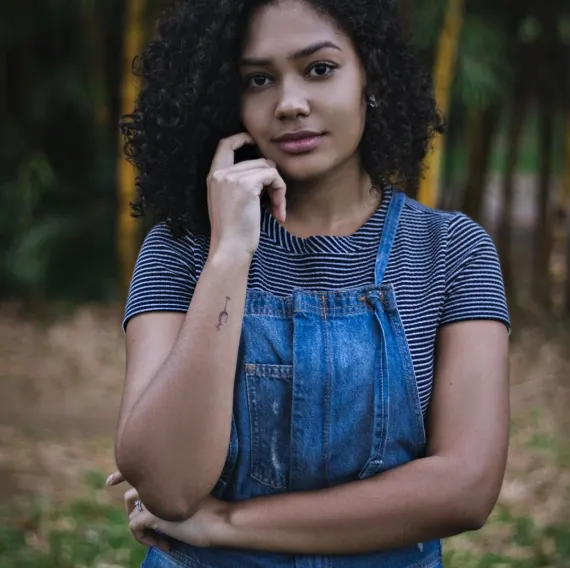
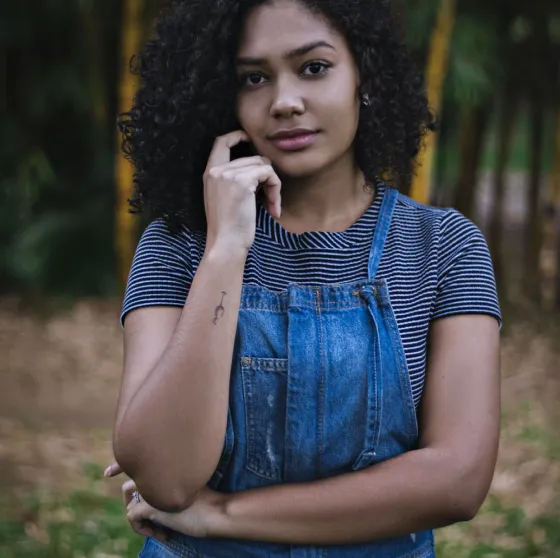
add more defer and resize some images

diff --git a/index.html b/index.html
@@ -6,7 +6,7 @@
 	<title>Nina Carducci</title>
 	<link rel="stylesheet" href="./assets/bootstrap/bootstrap.css" defer>
 	<link rel="stylesheet" href="./assets/style.css">
-	<link rel="preconnect" href="https://fonts.googleapis.com">
+	<link rel="preconnect" href="https://fonts.googleapis.com" defer>
 	<link rel="preconnect" href="https://fonts.gstatic.com" crossorigin>
 	<link href="https://fonts.googleapis.com/css2?family=Inter&family=Spectral:ital,wght@0,400;1,300;1,400;1,800&display=swap" rel="stylesheet" defer>
 	<meta charset="UTF-8">

diff --git a/assets/style.css b/assets/style.css
@@ -83,7 +83,7 @@ body {
 
 .nina-image {
 	width: 100%;
-	height: auto;
+	height: 100%;
 }
 
 #about-me {
